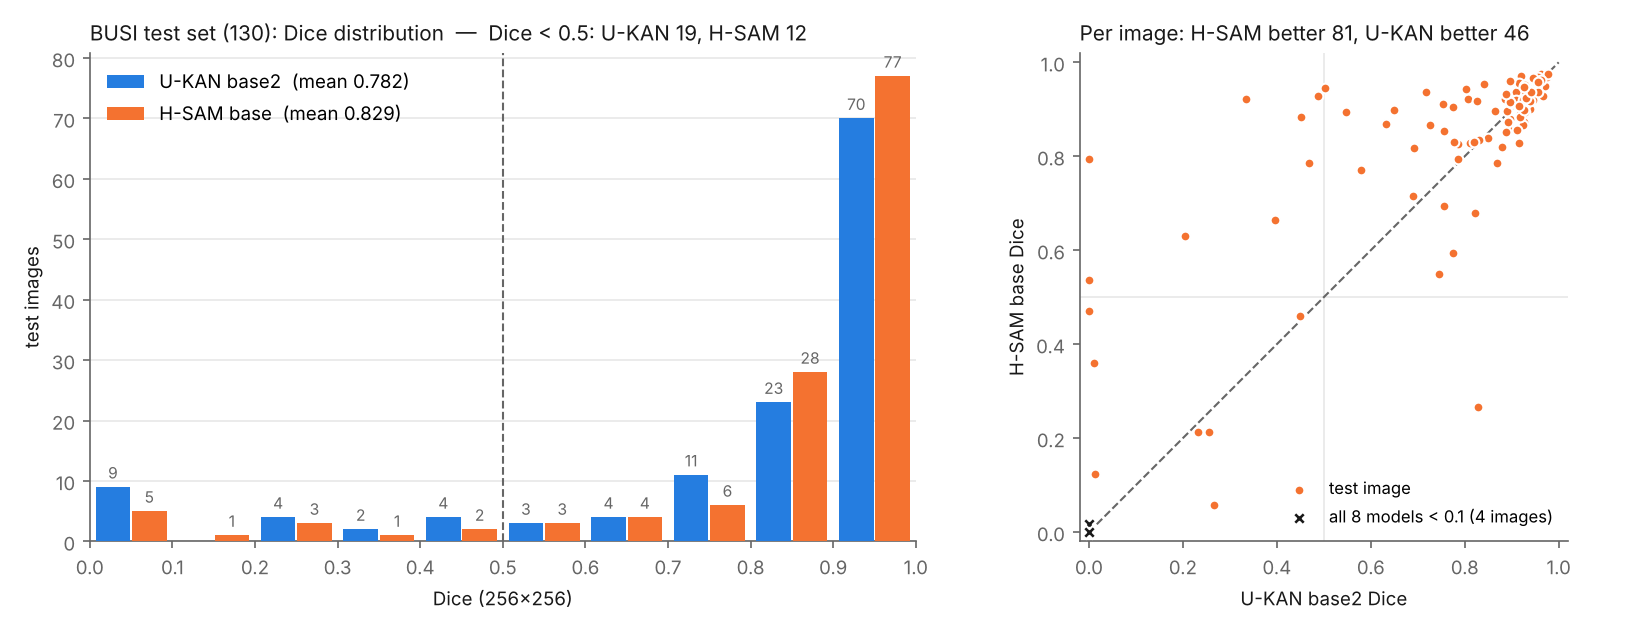
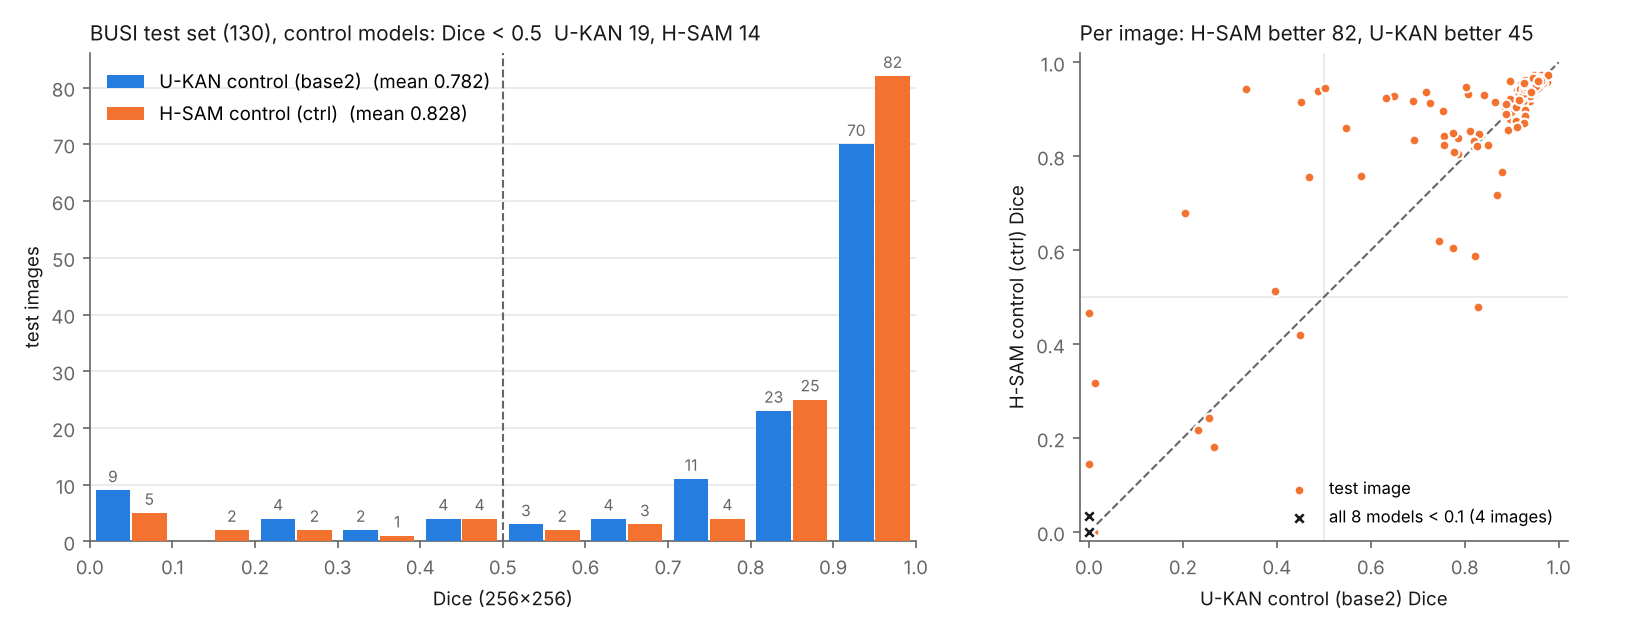
Compare control models: U-KAN base2 vs H-SAM ctrl

diff --git a/hsam_extension/compare_ukan_hsam.py b/hsam_extension/compare_ukan_hsam.py
@@ -1,7 +1,9 @@
 """
-U-KAN 與 H-SAM 的測試集 Dice 對照（130 張，都在 256×256 計算）
-  U-KAN base2（官方設定，last）、U-KAN shift（+ 平移增強，last）：psi-weighted-ukan / psi-discussion 的 percase
-  H-SAM base（官方設定，last）：本倉庫 results/percase 的 dice256
+U-KAN 與 H-SAM 對照組的測試集 Dice 對照（130 張，都在 256×256 計算）
+  Ψ 實驗是「對照組 → 專家」的比較，所以這裡比兩邊的對照組：
+    U-KAN 對照組 = base2（官方設定，last；psi-weighted-ukan 的 control）
+    H-SAM 對照組 = ctrl（逐張 loss、權重 1，last；本倉庫的 control）
+  CSV 另附 U-KAN shift（+ 平移增強）與 H-SAM base（官方 loss，Ψ 由它產生）供參考
 輸出：results/analysis/compare_UKAN_HSAM_BUSI.csv（每張一列）、compare_UKAN_HSAM_BUSI.png（左：Dice 分布；右：逐張散佈圖）
 用法（倉庫根目錄）：python hsam_extension/compare_ukan_hsam.py --ukan_repo ../psi-weighted-ukan --disc ../psi-discussion
 """
@@ -24,12 +26,14 @@ OUT = os.path.join(args.repo, 'results', 'analysis')
 rd = lambda f: pd.read_csv(f, encoding='utf-8-sig').set_index('case')
 ub = rd(os.path.join(args.ukan_repo, 'results/percase/busi_UKAN_base2_last.csv'))
 us = rd(os.path.join(args.disc, 'busi/results/percase/busi_UKAN_shift_last.csv'))
-hs = rd(os.path.join(args.repo, 'results/percase/busi_HSAM_base_last.csv'))
+hs = rd(os.path.join(args.repo, 'results/percase/busi_HSAM_ctrl_last.csv'))
+hb = rd(os.path.join(args.repo, 'results/percase/busi_HSAM_base_last.csv'))
 te = hs.index[hs.split == 'test']
 assert set(te) == set(ub.index[ub.split == 'val']), '測試集不同'
-D = pd.DataFrame({'ukan_base2': ub.dice.reindex(te), 'ukan_shift': us.dice.reindex(te), 'hsam_base': hs.dice256.reindex(te)})
-D['hsam_minus_ukan_base2'] = D.hsam_base - D.ukan_base2
-D = D.sort_values('hsam_minus_ukan_base2').rename_axis('case')
+D = pd.DataFrame({'ukan_base2': ub.dice.reindex(te), 'hsam_ctrl': hs.dice256.reindex(te),
+                  'ukan_shift': us.dice.reindex(te), 'hsam_base': hb.dice256.reindex(te)})
+D['hsam_ctrl_minus_ukan_base2'] = D.hsam_ctrl - D.ukan_base2
+D = D.sort_values('hsam_ctrl_minus_ukan_base2').rename_axis('case')
 D.to_csv(os.path.join(OUT, 'compare_UKAN_HSAM_BUSI.csv'), encoding='utf-8-sig', float_format='%.4f')
 
 C_U, C_H = '#257de0', '#f47230'          # 類別色第 1、2 格（已通過色盲檢查）
@@ -38,11 +42,11 @@ plt.rcParams.update({'font.size': 9, 'axes.edgecolor': INK2, 'axes.labelcolor': 
 fig, (a1, a2) = plt.subplots(1, 2, figsize=(11, 4.2), gridspec_kw={'width_ratios': [1.35, 1]})
 bins = np.arange(0, 1.0001, 0.1)
 cu, _ = np.histogram(D.ukan_base2, bins)
-ch, _ = np.histogram(D.hsam_base, bins)
+ch, _ = np.histogram(D.hsam_ctrl, bins)
 x = bins[:-1] + 0.05
 w = 0.042
-for off, cnt, col, lab, m in [(-w / 2 - 0.001, cu, C_U, 'U-KAN base2', D.ukan_base2.mean()),
-                              (w / 2 + 0.001, ch, C_H, 'H-SAM base', D.hsam_base.mean())]:
+for off, cnt, col, lab, m in [(-w / 2 - 0.001, cu, C_U, 'U-KAN control (base2)', D.ukan_base2.mean()),
+                              (w / 2 + 0.001, ch, C_H, 'H-SAM control (ctrl)', D.hsam_ctrl.mean())]:
     a1.bar(x + off, cnt, width=w, color=col, label=f'{lab}  (mean {m:.3f})', zorder=3)
     for xi, c in zip(x + off, cnt):
         if c:
@@ -54,8 +58,8 @@ a1.set_xlabel('Dice (256×256)')
 a1.set_ylabel('test images')
 a1.grid(axis='y', color=GRID, lw=0.8, zorder=0)
 a1.legend(frameon=False, loc='upper left')
-nu, nh = int((D.ukan_base2 < 0.5).sum()), int((D.hsam_base < 0.5).sum())
-a1.set_title(f'BUSI test set (130): Dice distribution  —  Dice < 0.5: U-KAN {nu}, H-SAM {nh}', fontsize=10, color=INK, loc='left')
+nu, nh = int((D.ukan_base2 < 0.5).sum()), int((D.hsam_ctrl < 0.5).sum())
+a1.set_title(f'BUSI test set (130), control models: Dice < 0.5  U-KAN {nu}, H-SAM {nh}', fontsize=10, color=INK, loc='left')
 for s in ('top', 'right'):
     a1.spines[s].set_visible(False)
 
@@ -64,20 +68,20 @@ rest = D.index.difference(hard)
 a2.plot([0, 1], [0, 1], color=INK2, lw=1, ls='--', zorder=1)
 a2.axhline(0.5, color=GRID, lw=0.8, zorder=0)
 a2.axvline(0.5, color=GRID, lw=0.8, zorder=0)
-a2.scatter(D.ukan_base2[rest], D.hsam_base[rest], s=22, color=C_H, edgecolor='white', linewidth=1, zorder=3, label='test image')
-a2.scatter(D.ukan_base2[hard], D.hsam_base[hard], s=40, marker='X', color=INK, edgecolor='white', linewidth=1, zorder=4,
+a2.scatter(D.ukan_base2[rest], D.hsam_ctrl[rest], s=22, color=C_H, edgecolor='white', linewidth=1, zorder=3, label='test image')
+a2.scatter(D.ukan_base2[hard], D.hsam_ctrl[hard], s=40, marker='X', color=INK, edgecolor='white', linewidth=1, zorder=4,
            label='all 8 models < 0.1 (4 images)')
-up, dn = int((D.hsam_minus_ukan_base2 > 0).sum()), int((D.hsam_minus_ukan_base2 < 0).sum())
+up, dn = int((D.hsam_ctrl_minus_ukan_base2 > 0).sum()), int((D.hsam_ctrl_minus_ukan_base2 < 0).sum())
 a2.set_xlim(-0.02, 1.02)
 a2.set_ylim(-0.02, 1.02)
 a2.set_aspect('equal')
-a2.set_xlabel('U-KAN base2 Dice')
-a2.set_ylabel('H-SAM base Dice')
+a2.set_xlabel('U-KAN control (base2) Dice')
+a2.set_ylabel('H-SAM control (ctrl) Dice')
 a2.set_title(f'Per image: H-SAM better {up}, U-KAN better {dn}', fontsize=10, color=INK, loc='left')
 a2.legend(frameon=False, loc='lower right', fontsize=8)
 for s in ('top', 'right'):
     a2.spines[s].set_visible(False)
 fig.tight_layout()
 fig.savefig(os.path.join(OUT, 'compare_UKAN_HSAM_BUSI.png'), dpi=150, facecolor='white')
-print(D[['ukan_base2', 'ukan_shift', 'hsam_base']].describe().round(4))
-print(f'Dice < 0.5：U-KAN base2 {nu}、U-KAN shift {int((D.ukan_shift < 0.5).sum())}、H-SAM base {nh}；H-SAM 較好 {up} 張、較差 {dn} 張')
+print(D[['ukan_base2', 'hsam_ctrl', 'ukan_shift', 'hsam_base']].describe().round(4))
+print(f'Dice < 0.5：U-KAN base2 {nu}、H-SAM ctrl {nh}；H-SAM ctrl 較好 {up} 張、較差 {dn} 張')
